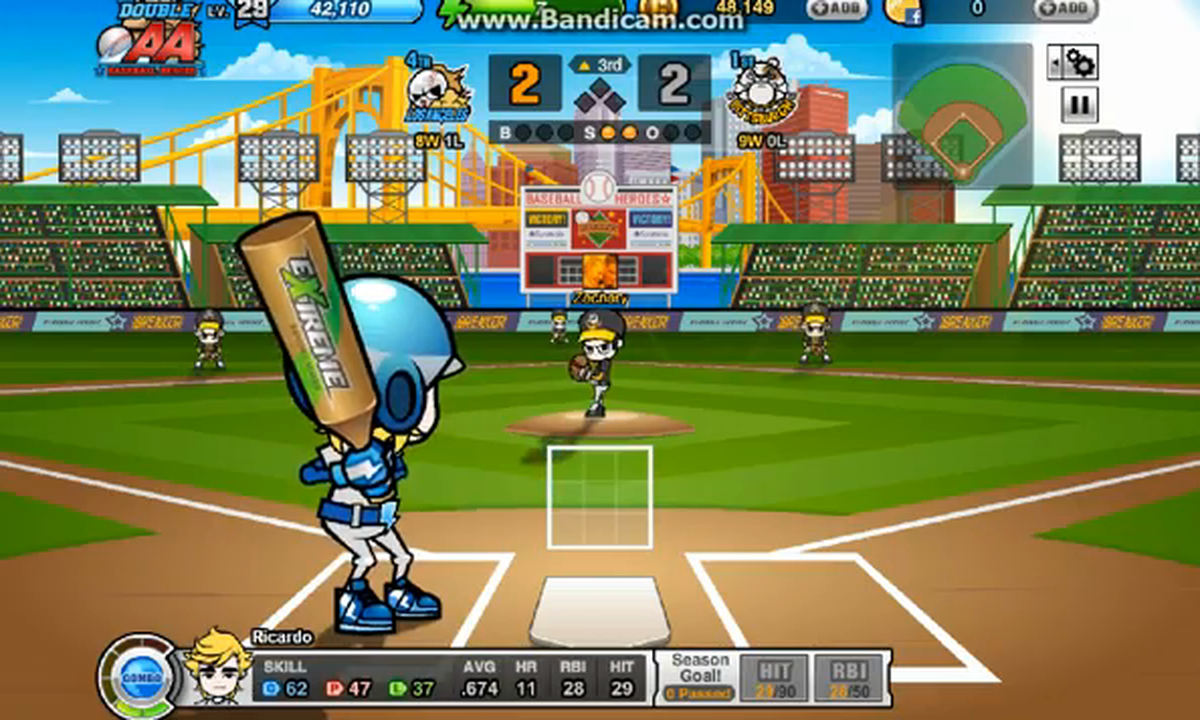
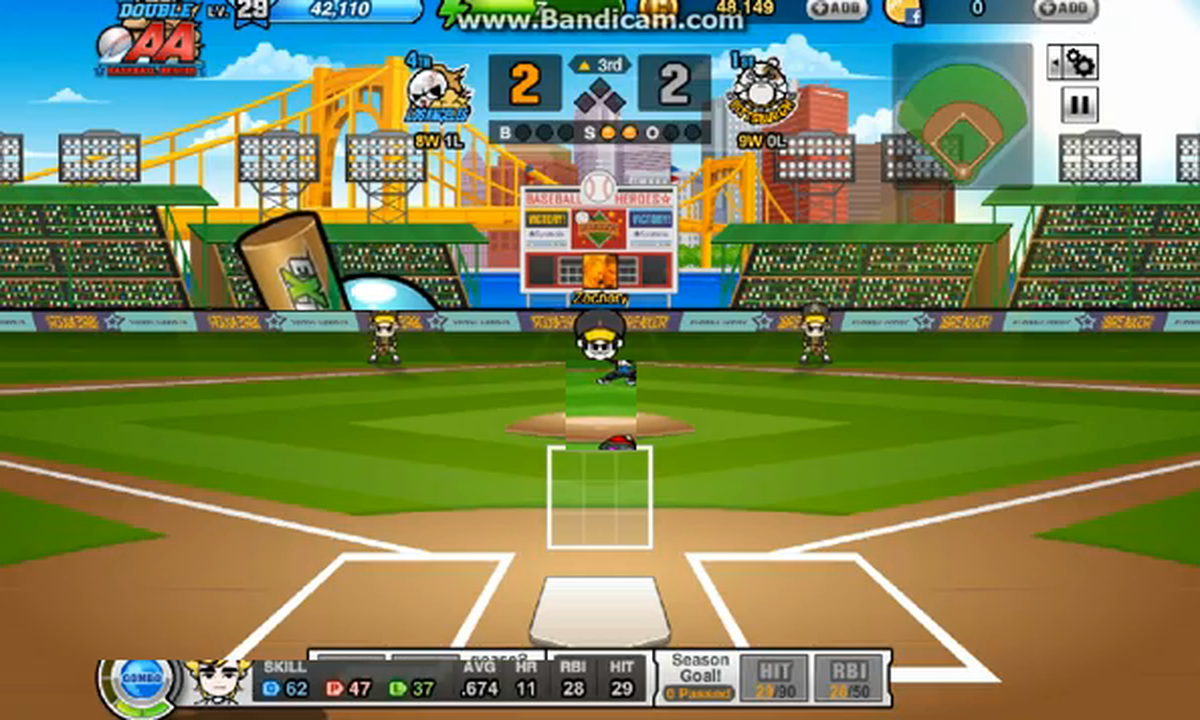
fix(animation): eliminate visual artifacts, restore clean empty stadium and proper sprite transparency

Changed region(s): [[0.0, 0.4278, 0.555, 0.9167], [0.0617, 0.7333, 0.1542, 0.7639], [0.0, 0.7639, 0.0617, 0.7944]]

diff --git a/src/components/BattingField.tsx b/src/components/BattingField.tsx
@@ -436,10 +436,10 @@ export const BattingField: React.FC<BattingFieldProps> = ({
       // 2. Pitcher on Mound
       ctx.save();
       const pX = 400;
-      const pY = 248;
+      const pY = 250;
       if (pitcherSpriteRef.current) {
-        const bounce = pitchPrompt === 'PITCHING' ? Math.sin(now / 80) * 3 : 0;
-        ctx.drawImage(pitcherSpriteRef.current, pX - 35, pY - 72 + bounce, 70, 78);
+        const bounce = pitchPrompt === 'PITCHING' ? Math.sin(now / 90) * 2.5 : 0;
+        ctx.drawImage(pitcherSpriteRef.current, pX - 35, pY - 70 + bounce, 70, 64);
       } else {
         ctx.fillStyle = '#16a34a';
         ctx.beginPath();
@@ -614,7 +614,8 @@ export const BattingField: React.FC<BattingFieldProps> = ({
       if (batterSpriteRef.current) {
         ctx.translate(bX, bY);
         ctx.rotate(batAngle);
-        ctx.drawImage(batterSpriteRef.current, -80, -170, 160, 170);
+        // Batter sprite is 130x187
+        ctx.drawImage(batterSpriteRef.current, -65, -170, 130, 187);
       } else {
         ctx.fillStyle = '#1d4ed8';
         ctx.beginPath();
